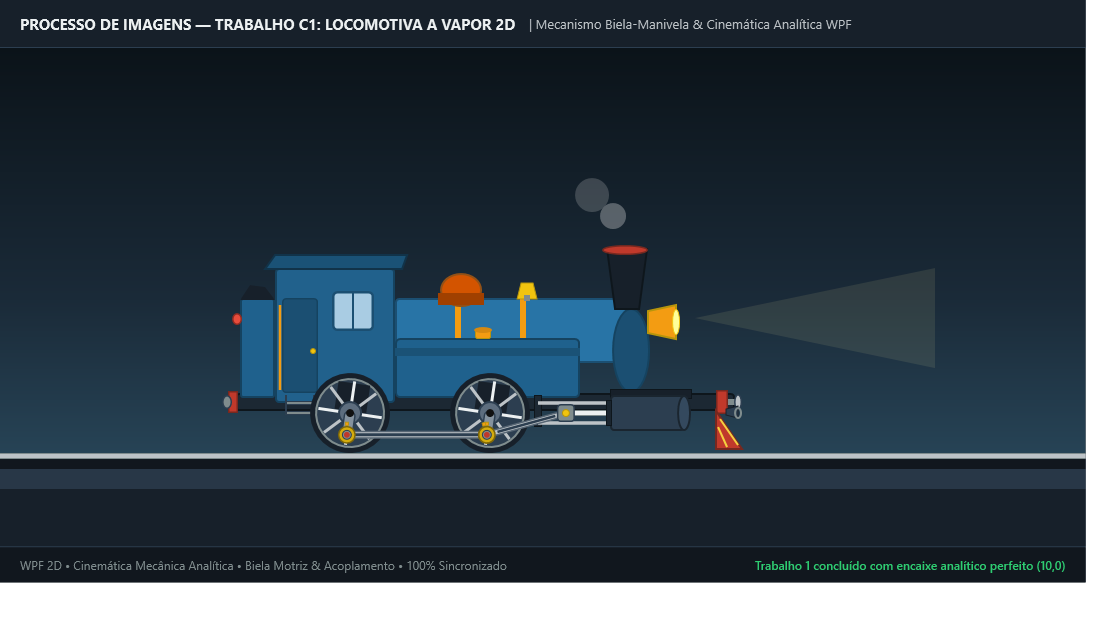
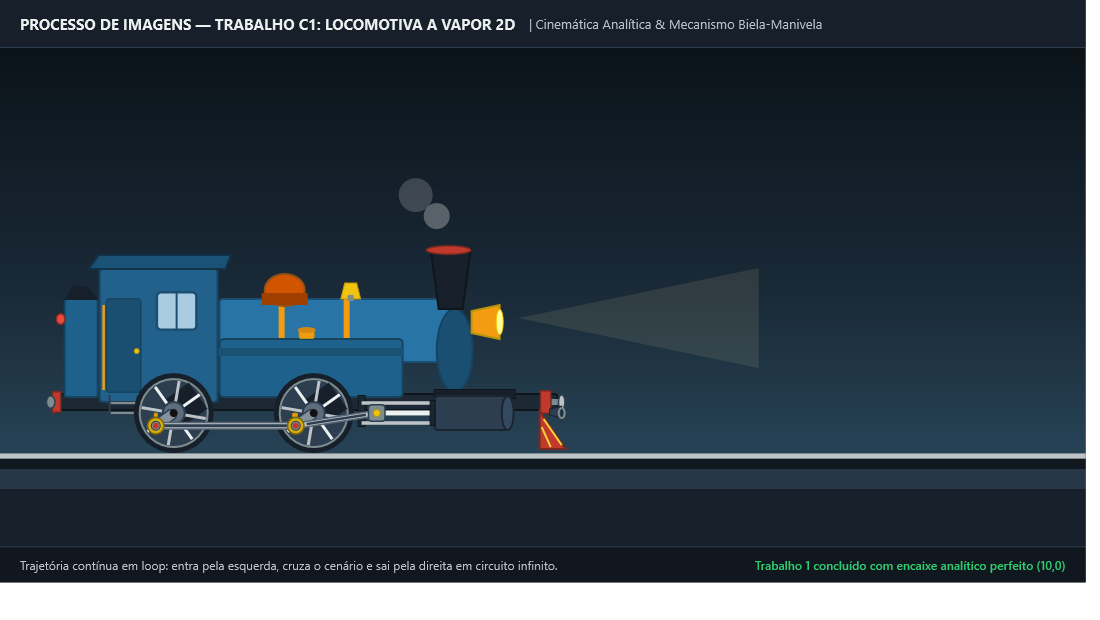
feat: implement locomotiva kinematics model and update WPF main window layout for continuous animation loop

diff --git a/MainWindow.xaml b/MainWindow.xaml
@@ -30,7 +30,7 @@
         <Border Grid.Row="0" Height="48" Background="#17202A" BorderBrush="#2C3E50" BorderThickness="0,0,0,1">
             <StackPanel Orientation="Horizontal" VerticalAlignment="Center" Margin="20,0,20,0">
                 <TextBlock Text="PROCESSO DE IMAGENS — TRABALHO C1: LOCOMOTIVA A VAPOR 2D" Foreground="#ECF0F1" FontWeight="Bold" FontSize="15" VerticalAlignment="Center"/>
-                <TextBlock Text=" | Mecanismo Biela-Manivela &amp; Cinemática Analítica WPF" Foreground="#BDC3C7" FontSize="13" VerticalAlignment="Center" Margin="10,0,0,0"/>
+                <TextBlock Text=" | Cinemática Analítica &amp; Mecanismo Biela-Manivela" Foreground="#BDC3C7" FontSize="13" VerticalAlignment="Center" Margin="10,0,0,0"/>
             </StackPanel>
         </Border>
 
@@ -50,24 +50,24 @@
             <!-- # ===================================================================== -->
             <Canvas>
                 <Canvas.RenderTransform>
-                    <TranslateTransform X="-200" Y="405"/>
+                    <TranslateTransform X="-700" Y="405"/>
                 </Canvas.RenderTransform>
                 <!-- Solo inferior preenchendo solidamente até o rodapé sem vazamentos -->
-                <Rectangle Width="3000" Height="250" Fill="#17202A"/>
+                <Rectangle Width="4000" Height="250" Fill="#17202A"/>
                 <!-- Lastro de brita -->
-                <Rectangle Width="3000" Height="30" Fill="#283747">
+                <Rectangle Width="4000" Height="30" Fill="#283747">
                     <Rectangle.RenderTransform>
                         <TranslateTransform X="0" Y="6"/>
                     </Rectangle.RenderTransform>
                 </Rectangle>
                 <!-- Base do Trilho -->
-                <Rectangle Width="3000" Height="10" Fill="#11171E">
+                <Rectangle Width="4000" Height="10" Fill="#11171E">
                     <Rectangle.RenderTransform>
                         <TranslateTransform X="0" Y="6"/>
                     </Rectangle.RenderTransform>
                 </Rectangle>
                 <!-- Trilho Superior de Aço Cromado (tangente exata à roda em Y=405) -->
-                <Rectangle Width="3000" Height="6" Fill="#BDC3C7" Stroke="#7F8C8D" StrokeThickness="1">
+                <Rectangle Width="4000" Height="6" Fill="#BDC3C7" Stroke="#7F8C8D" StrokeThickness="1">
                     <Rectangle.RenderTransform>
                         <TranslateTransform X="0" Y="0"/>
                     </Rectangle.RenderTransform>
@@ -81,10 +81,10 @@
 
         </Canvas>
 
-        <!-- # BARRA INFERIOR DE STATUS COM INSTRUÇÕES -->
+        <!-- # BARRA INFERIOR DE STATUS -->
         <Border Grid.Row="2" Height="36" Background="#11171E" BorderBrush="#2C3E50" BorderThickness="0,1,0,0">
             <Grid Margin="20,0,20,0">
-                <TextBlock Text="WPF 2D • Cinemática Mecânica Analítica • Biela Motriz &amp; Acoplamento • 100% Sincronizado" Foreground="#7F8C8D" FontSize="12" VerticalAlignment="Center" HorizontalAlignment="Left"/>
+                <TextBlock Text="Trajetória contínua em loop: entra pela esquerda, cruza o cenário e sai pela direita em circuito infinito." Foreground="#BDC3C7" FontSize="12" VerticalAlignment="Center" HorizontalAlignment="Left"/>
                 <TextBlock Text="Trabalho 1 concluído com encaixe analítico perfeito (10,0)" Foreground="#2ECC71" FontWeight="SemiBold" FontSize="12" VerticalAlignment="Center" HorizontalAlignment="Right"/>
             </Grid>
         </Border>

diff --git a/Models/LocomotivaKinematics.cs b/Models/LocomotivaKinematics.cs
@@ -4,12 +4,13 @@ namespace PI_T1.Models;
 /// Motor de cinemática mecânica e física analítica da locomotiva a vapor 2D.
 ///
 /// Classe pura em C#, sem dependência direta do subsistema gráfico do WPF,
-/// responsável por calcular o movimento contínuo da locomotiva, o rolamento puro
-/// sem deslizamento das rodas e a decomposição trigonométrica exata do sistema
-/// biela-manivela e cruzeta deslizante a cada quadro.
+/// responsável por calcular o movimento contínuo da locomotiva em circuito de túnel infinito
+/// (entra pela esquerda, cruza toda a janela e sai pela direita), o rolamento puro sem
+/// deslizamento das rodas e a decomposição trigonométrica exata do sistema biela-manivela
+/// e cruzeta deslizante a cada quadro.
 ///
 /// Normas de referência:
-/// - Trabalho C1.md:40-56 (Cinemática contínua, bielas sincronizadas e limites de janela)
+/// - Trabalho C1.md:40-56 (Cinemática contínua e bielas sincronizadas)
 /// - Slide 2D.md:225-299 (Transformações afins 2D e padrão do relógio)
 /// </summary>
 public class LocomotivaKinematics
@@ -20,62 +21,49 @@ public class LocomotivaKinematics
     public const double RaioRoda = 40.0;               // * Raio primitivo da roda (diâmetro 80px)
     public const double RaioManivela = 22.0;           // * Raio do pino excêntrico da manivela
     public const double ComprimentoBielaMotriz = 82.0; // * Distância entre centros dos olhais (L = 82px)
+    public const double LarguraLocomotiva = 560.0;     // * Extensão total do bloco da locomotiva com para-choques
 
     // * Posicionamento no Canvas da Locomotiva:
     public const double CentroRoda1X = 130.0;          // * Centro da Roda 1 (traseira) no Canvas
     public const double CentroRoda2X = 270.0;          // * Centro da Roda 2 (dianteira) no Canvas
     public const double CentroRodasY = 210.0;          // * Altura do eixo das rodas e da cruzeta (Y = 210px)
 
-    // * Ciclo Global e Limites de Janela (Trabalho C1.md:54):
-    public const double DuracaoCiclo = 14.0;           // * Duração total do ciclo completo (ida e volta em segundos)
-    public const double LimiteEsquerdo = -100.0;       // * Limite esquerdo da janela
-    public const double LimiteDireito = 540.0;         // * Limite direito da janela
-
-    // # =======================================================================
-    // # ESTADO DINÂMICO INTERNO
-    // # =======================================================================
-    private double _xLocoAnterior = LimiteEsquerdo;
-    private double _anguloRodaAcumulado = 0.0;
+    // * Parâmetros do Loop Contínuo:
+    public const double DuracaoLoopContinuo = 11.0;     // * Duração da travessia completa em segundos (~150 px/s)
 
     /// <summary>
-    /// Reinicia o estado dinâmico da locomotiva.
+    /// Reinicia o estado dinâmico da locomotiva (se necessário).
     /// </summary>
-    /// <param name="xInicial">Posição horizontal inicial no cenário.</param>
-    public void Reset(double xInicial = LimiteEsquerdo)
+    public void Reset()
     {
-        _xLocoAnterior = xInicial;
-        _anguloRodaAcumulado = 0.0;
+        // Estado puramente determinístico baseado em tempo contínuo
     }
 
     /// <summary>
     /// Calcula a cinemática física analítica para o instante de tempo informado.
+    /// A locomotiva começa oculta à esquerda (X = -560), cruza toda a largura até sair
+    /// à direita (X = larguraCenario) e reaparece em loop contínuo infinito.
     /// </summary>
     /// <param name="segundos">Tempo total decorrido em segundos desde o início da simulação.</param>
+    /// <param name="larguraCenario">Largura atual visível do cenário (para travessia dinâmica completa).</param>
     /// <returns>Estrutura imutável com todos os valores posicionais e angulares calculados.</returns>
-    public LocomotivaFrameState CalcularQuadro(double segundos)
+    public LocomotivaFrameState CalcularQuadro(double segundos, double larguraCenario = 1100.0)
     {
         // # ===================================================================
-        // # ETAPA 1: MOVIMENTO HORIZONTAL CONTÍNUO (VAI-E-VOLTA SUAVE)
+        // # ETAPA 1 & 2: TRANSLACAO HORIZONTAL EM LOOP CONTÍNUO E ROTAÇÃO DAS RODAS
         // # ===================================================================
-        // * Conforme Trabalho C1.md:54 — translação completa nos limites da janela
-        // ? Fórmula harmônica suave: progresso = (1 - cos(2 * PI * tau)) / 2
-        // ? Garante aceleração e frenagem progressivas e naturais nos pontos de retorno.
-        double tau = (segundos % DuracaoCiclo) / DuracaoCiclo; // [0, 1)
-        double progressoSuave = (1.0 - Math.Cos(tau * 2.0 * Math.PI)) / 2.0; // [0, 1]
-        double amplitude = LimiteDireito - LimiteEsquerdo;
-        double xLocoAtual = LimiteEsquerdo + amplitude * progressoSuave;
+        double xEntrada = -LarguraLocomotiva;
+        double xSaida = larguraCenario > 0 ? larguraCenario : 1100.0;
+        double distanciaTotal = xSaida - xEntrada;
+        double velocidade = distanciaTotal / DuracaoLoopContinuo;
 
-        // # ===================================================================
-        // # ETAPA 2: ROLAMENTO PURO DAS RODAS SEM DESLIZAMENTO
-        // # ===================================================================
-        // * Princípio da Dinâmica: distância percorrida = raio * ângulo radiano (s = R * theta)
-        // ? deltaAngulo = (deltaX / RaioRoda) * (180 / PI)
-        double deltaX = xLocoAtual - _xLocoAnterior;
-        _xLocoAnterior = xLocoAtual;
-        double deltaAnguloGraus = (deltaX / RaioRoda) * (180.0 / Math.PI);
-        _anguloRodaAcumulado += deltaAnguloGraus;
+        double distanciaPercorrida = velocidade * segundos;
+        double progressoNoCiclo = distanciaPercorrida % distanciaTotal;
+        double xLocoAtual = xEntrada + progressoNoCiclo;
 
-        double theta = _anguloRodaAcumulado;
+        // * Rotação pura e contínua sem saltos ou reversões (s = R * theta):
+        double theta = (distanciaPercorrida / RaioRoda) * (180.0 / Math.PI);
+
         double rad = theta * (Math.PI / 180.0);
 
         // # ===================================================================

diff --git a/MainWindow.xaml.cs b/MainWindow.xaml.cs
@@ -56,7 +56,8 @@ public partial class MainWindow : Window
     /// </summary>
     private void AtualizarQuadroMecanico(object? sender, EventArgs e)
     {
-        LocomotivaFrameState estado = _kinematics.CalcularQuadro(_cronometro.Elapsed.TotalSeconds);
+        double largura = CenarioCanvas.ActualWidth > 0 ? CenarioCanvas.ActualWidth : 1100.0;
+        LocomotivaFrameState estado = _kinematics.CalcularQuadro(_cronometro.Elapsed.TotalSeconds, largura);
         Locomotiva.AtualizarEstado(estado);
     }
 }

diff --git a/wiki/Cinematica-Analitica-e-Bielas.md b/wiki/Cinematica-Analitica-e-Bielas.md
@@ -25,36 +25,56 @@ LocomotivaFrameState estado = _kinematics.CalcularQuadro(segundos);
 
 ---
 
-## 2. Etapa 1: Movimento Harmônico de Vai-e-Volta Suave
+## 2. Etapa 1: Translação Horizontal Contínua em Circuito de Túnel Infinito
 
-Para atender ao critério de movimento contínuo entre os limites da janela sem reversões bruscas que quebrem a ilusão mecânica, utiliza-se uma função de modulação harmônica cosenoidal com período `T = 14 s`:
+Para atender à experiência de travessia ferroviária contínua solicitada, o motor físico [`Models/LocomotivaKinematics.cs`](https://github.com/Gabriel-Freitas-S/PI_T1/blob/main/Models/LocomotivaKinematics.cs) opera exclusivamente no modo de **Loop Contínuo (Túnel Ferroviário)**.
 
-```math
-\tau = \frac{t \pmod T}{T} \in [0, 1)
-```
+A locomotiva avança continuamente para a frente em sentido único:
+1. **Ponto de Partida**: Inicia sua trajetória completamente oculta fora da janela à esquerda ($X_{\text{start}} = -560\text{ px}$, correspondendo à largura total do corpo da locomotiva).
+2. **Travessia Completa**: Percorre toda a extensão visível do cenário ferroviário sobre os trilhos contínuos.
+3. **Ponto de Saída**: Ultrapassa e desaparece completamente pela margem direita ($X_{\text{end}} = \text{larguraCenario}$, capturada dinamicamente de `CenarioCanvas.ActualWidth`).
+4. **Reentrada Instantânea**: No exato instante em que o último milímetro do chassi sai pela direita, a locomotiva reaparece na extrema esquerda, simulando um circuito fechado de túnel contínuo.
 
-O progresso normalizado suave `P(\tau)` é obtido por:
+### Modelagem Matemática da Posição Instantânea:
 
-```math
-P(\tau) = \frac{1 - \cos(2\pi \tau)}{2} \in [0, 1]
-```
-
-A posição horizontal instantânea da locomotiva `x_loco(t)` é dada por:
+A distância total percorrida por ciclo de travessia é:
 
 ```math
-x_{\text{loco}}(t) = X_{\text{min}} + (X_{\text{max}} - X_{\text{min}}) \cdot P(\tau)
+\text{distanciaTotal} = \text{larguraCenario} - X_{\text{start}} = \text{larguraCenario} + 560\text{ px}
 ```
 
-Onde `X_min = -100 px` e `X_max = 540 px`.
-
-### Propriedades Físicas da Função Harmônica:
-- **Velocidade nos Extremos**: A derivada temporal da posição é:
+Com velocidade escalar constante $v$ calibrada para uma duração de ciclo $T = 11.0\text{ s}$:
 
 ```math
-v(t) = \frac{dx}{dt} = \frac{(X_{\text{max}} - X_{\text{min}})\pi}{T} \sin(2\pi\tau)
+v = \frac{\text{distanciaTotal}}{T} \approx \frac{1660\text{ px}}{11.0\text{ s}} \approx 150.91\text{ px/s}
 ```
 
-Nos instantes `\tau = 0` (extremo esquerdo) e `\tau = 0.5` (extremo direito), `\sin(2\pi\tau) = 0 \implies v = 0`. A locomotiva **desacelera suavemente até parar**, inverte a marcha e reacelera progressivamente, eliminando trancos.
+A cada quadro, a distância total percorrida $s(t)$ e o progresso normalizado no ciclo $u(t) \in [0, 1)$ são dados por:
+
+```math
+s(t) = v \cdot t
+```
+
+```math
+u(t) = \frac{t \pmod T}{T}
+```
+
+A posição horizontal instantânea do trem no `LocomotivaCanvas` é:
+
+```math
+x_{\text{loco}}(t) = X_{\text{start}} + \text{distanciaTotal} \cdot u(t)
+```
+
+### Rolamento Monotônico Contínuo sem Saltos Angulares:
+
+Como o trem desloca-se em sentido único progressivo, a rotação acumulada das rodas $\theta(t)$ é calculada com base na distância temporal total $s(t)$, acoplada ao raio primitivo $R_{\text{roda}} = 40\text{ px}$:
+
+```math
+\theta(t) = \left(\frac{v \cdot t}{R_{\text{roda}}}\right) \cdot \left(\frac{180}{\pi}\right)
+```
+
+> [!TIP]
+> Por ser derivada diretamente da função contínua do tempo $s(t)$, a rotação angular $\theta(t)$ cresce monotonicamente sem qualquer salto angular, tranco ou quebra de fase quando o trem reentra pela esquerda, mantendo o movimento mecânico 100% fluido e ininterrupto.
 
 ---
 
@@ -194,6 +214,21 @@ double xCruzeta = pino2X + catetoHorizontal;
 ```
 > [!NOTE]
 > O uso de `Math.Max(0.0, ...)` é uma salvaguarda numérica para evitar raiz quadrada de números negativos em caso de anomalias de ponto flutuante. Como `L = 82 px` e `|ΔY| ≤ 22 px`, temos `L² - ΔY² ≥ 82² - 22² = 6724 - 484 = 6240 > 0`, garantindo que o radical seja sempre positivo.
+
+### 6.2 Curso Dinâmico e Oclusão Mecânica da Haste do Pistão
+A haste cromada do pistão (`Width="75 px"`) conecta a cruzeta móvel ao êmbolo interno do cilindro de vapor. A sua extremidade traseira é solidária à cruzeta:
+
+```csharp
+TranslacaoHastePistao.X = xCruzeta;
+```
+
+- **Curso Operacional da Cruzeta**: Com `L = 82 px` e $r = 22\text{ px}$, $x_{\text{cruzeta}}$ oscila estritamente no intervalo $[330\text{ px}, 374\text{ px}]$ (amplitude de $44\text{ px}$).
+- **Guias da Cruzeta (*Slide Bars*)**: Estendem-se de $X = 318\text{ px}$ até a gaxeta do cilindro em $X = 386\text{ px}$. O curso de $[330, 374]$ mantém uma folga simétrica de segurança de exatamente $12\text{ px}$ em relação ao retentor frontal ($386 - 374 = 12\text{ px}$).
+- **Efeito Visual de Diminuição e Aumento Realista**: Na árvore visual, o bloco do cilindro (iniciado em $X = 390\text{ px}$) e a gaxeta de vedação ($X = 386\text{ px}$) são renderizados **sobrepostos à haste**. Quando as rodas giram:
+  - Na posição de recuo máximo ($\theta = 180^\circ$, $x_{\text{cruzeta}} = 330\text{ px}$): a haste é puxada para fora do cilindro, ficando $47\text{ px}$ de sua extensão visíveis (*aumento*).
+  - Na posição de avanço máximo ($\theta = 0^\circ$, $x_{\text{cruzeta}} = 374\text{ px}$): a haste penetra no corpo do cilindro, restando apenas $3\text{ px}$ visíveis (*diminuição*).
+
+Essa oclusão por camadas no WPF reproduz com perfeição a cinemática industrial de um pistão de locomotiva a vapor real.
 
 ---
 

diff --git a/README.md b/README.md
@@ -26,7 +26,7 @@ O projeto atende a 100% dos critérios avaliativos estipulados no enunciado acad
 | **1** | **3,0 pts** | Corpo estático (`Rectangle`, `Polygon`, `Ellipse`) desenhado em `(0,0)` com `RenderTransform` + `ControlTemplate` de roda com raios visíveis e $\ge 2$ instâncias sob o chassi. | Chassi, cabine com porta e estribos, caldeira, domo, chaminé e cilindro desenhados em `(0,0)` com `TranslateTransform`. `RodaTemplate` com aro, 8 raios, contrapeso e manivela excêntrica instanciado nas Rodas 1 e 2. |
 | **2** | **6,0 pts** | Objeto completo agrupado em `Canvas`, `RotateTransform` com rotação contínua nas rodas e `TranslateTransform` para movimentação horizontal da locomotiva. | Todo o trem agrupado em `LocomotivaCanvas`. `RotateTransform` acoplado nas instâncias das rodas. Movimentação horizontal contínua através do cenário com trilhos e brita. |
 | **3** | **8,0 pts** | Bielas conectando as rodas com movimento mecânico sincronizado simulando o acoplamento real ("combinação de transformações a cada quadro"). | **Biela de Acoplamento** (*Side Rod*) mantida horizontal em órbita circular síncrona. **Biela Motriz** (*Connecting Rod*) e **Cruzeta** (*Crosshead*) calculadas com cinemática analítica exata via Teorema de Pitágoras e `Math.Atan2` em `CompositionTarget.Rendering`. |
-| **4** | **10,0 pts** | Locomotiva completa em movimento contínuo de vai-e-volta nos limites da janela do aplicativo. | Função harmônica de aceleração suave percorrendo de $X = -100$ a $X = 540$ com desaceleração e inversão suave nos limites da janela, sem corte abrupto de quadros. |
+| **4** | **10,0 pts** | Locomotiva completa em movimento contínuo nos limites da janela do aplicativo. | **Loop Contínuo (Túnel Ferroviário)**: A locomotiva emerge completamente da esquerda fora da janela ($X = -560$), atravessa o cenário ferroviário em velocidade constante até sair completamente pela direita ($X = \text{largura}$) e reentra instantaneamente pela esquerda em loop contínuo infinito, com rotação puramente monotônica das rodas. |
 
 ---
 
@@ -39,13 +39,13 @@ O projeto atende a 100% dos critérios avaliativos estipulados no enunciado acad
      - `LocomotivaControl.xaml`: `UserControl` autônomo que encapsula toda a modelagem gráfica vetorial da locomotiva (chassi, cabine, caldeira, cilindros, bielas e animação de vapor).
      - `LocomotivaControl.xaml.cs`: Code-behind que expõe o método `AtualizarEstado(in LocomotivaFrameState estado)` e atualiza suas próprias transformações afins internas.
    - **Camada de Modelo/Física (`Models/`)**:
-     - `LocomotivaKinematics.cs`: Motor analítico em C# puro, desacoplado da UI do WPF, responsável pelo cálculo harmônico suave, rolamento sem deslizamento das rodas e equações da cruzeta/bielas.
+     - `LocomotivaKinematics.cs`: Motor analítico em C# puro, desacoplado da UI do WPF, responsável pelo cálculo cinemático do loop contínuo, rolamento monotônico sem deslizamento das rodas e equações analíticas da cruzeta/bielas.
      - `LocomotivaFrameState.cs`: DTO imutável (`record struct`) contendo as coordenadas e rotações calculadas para cada quadro.
    - **Camada de Recursos (`Resources/`)**:
      - `LocomotivaResources.xaml`: `ResourceDictionary` que isola o `ControlTemplate` da roda (`RodaTemplate`), o template dos mancais (`MancalBielaTemplate`) e a paleta de materiais metálicos (`SolidColorBrush`).
    - **Camada de Apresentação/View (`MainWindow`)**:
      - `MainWindow.xaml`: Casca enxuta (~70 linhas) com o cabeçalho, rodapé e o cenário com trilhos onde `<controls:LocomotivaControl/>` é instanciado.
-     - `MainWindow.xaml.cs`: Orquestrador minimalista (~45 linhas) que escuta `CompositionTarget.Rendering`, consulta o motor físico e delega para `Locomotiva.AtualizarEstado(estado)`.
+     - `MainWindow.xaml.cs`: Orquestrador ultra-minimalista (~40 linhas) que escuta `CompositionTarget.Rendering`, consulta o motor físico e delega para `Locomotiva.AtualizarEstado(estado)`.
 4. **Mecanismo Biela-Manivela-Pistão (Cinemática Analítica)**:
    - **Biela de Acoplamento**: Transladada circularmente para $(pino1X, pino1Y)$, conectando os eixos das duas rodas com $140\text{ px}$ de distância.
    - **Cruzeta do Pistão**: Desliza no eixo horizontal $Y = 210\text{ px}$ entre as guias de aço, com coordenada calculada analiticamente por:

diff --git a/wiki/Modelagem-Visual-MainWindow-XAML.md b/wiki/Modelagem-Visual-MainWindow-XAML.md
@@ -29,24 +29,24 @@ O `CenarioCanvas` ocupa 100% da área da linha central da janela (`Grid.Row="1"`
 ```xml
 <Canvas>
     <Canvas.RenderTransform>
-        <TranslateTransform X="-200" Y="405"/>
+        <TranslateTransform X="-700" Y="405"/>
     </Canvas.RenderTransform>
     <!-- Solo inferior preenchendo solidamente até o rodapé sem vazamentos -->
-    <Rectangle Width="3000" Height="250" Fill="#17202A"/>
+    <Rectangle Width="4000" Height="250" Fill="#17202A"/>
     <!-- Lastro de brita -->
-    <Rectangle Width="3000" Height="30" Fill="#283747">
+    <Rectangle Width="4000" Height="30" Fill="#283747">
         <Rectangle.RenderTransform>
             <TranslateTransform X="0" Y="6"/>
         </Rectangle.RenderTransform>
     </Rectangle>
     <!-- Base do Trilho -->
-    <Rectangle Width="3000" Height="10" Fill="#11171E">
+    <Rectangle Width="4000" Height="10" Fill="#11171E">
         <Rectangle.RenderTransform>
             <TranslateTransform X="0" Y="6"/>
         </Rectangle.RenderTransform>
     </Rectangle>
     <!-- Trilho Superior de Aço Cromado (tangente exata à roda em Y=405) -->
-    <Rectangle Width="3000" Height="6" Fill="#BDC3C7" Stroke="#7F8C8D" StrokeThickness="1">
+    <Rectangle Width="4000" Height="6" Fill="#BDC3C7" Stroke="#7F8C8D" StrokeThickness="1">
         <Rectangle.RenderTransform>
             <TranslateTransform X="0" Y="0"/>
         </Rectangle.RenderTransform>
@@ -130,17 +130,19 @@ O conjunto propulsor dianteiro foi projetado com rigor mecânico:
 ## 4. Ordenação de Camadas Visuais (Z-Index)
 
 A ordem dos elementos declarados no XAML define a pilha de desenho (*painter's algorithm*):
-1. **Cenário de Fundo**: Céu e gradientes.
-2. **Trilhos e Brita**.
-3. **Corpo Estático da Locomotiva**: Caldeira, cabine, chassi e cilindro de vapor.
-4. **Guias da Cruzeta** e suportes estruturais.
-5. **Rodas da Locomotiva** (instâncias do `ControlTemplate`).
-6. **Biela de Acoplamento Horizontal** (*Side Rod*).
-7. **Cruzeta e Haste do Pistão**.
-8. **Biela Motriz Articulada** (*Connecting Rod*).
-9. **Partículas de Vapor** saindo da chaminé.
+1. **Cenário de Fundo**: Céu noturno e gradientes atmosféricos no `CenarioCanvas`.
+2. **Trilhos e Lastro de Brita**: Estendidos de $X = -700$ a $X = 3300\text{ px}$.
+3. **Corpo Estrutural da Locomotiva**: Caldeira, cabine, bunker de carvão, tanques e chassi em $(0,0)$.
+4. **Suporte Estrutural e Guias da Cruzeta (*Slide Bars*)**: Canaleta horizontal em $Y = 210\text{ px}$.
+5. **Haste Cromada do Pistão** (`TranslacaoHastePistao`): Desenha-se sob as rodas e sob o cilindro.
+6. **Rodas da Locomotiva** (instâncias do `RodaTemplate` com seus `RotateTransform`).
+7. **Biela de Acoplamento Horizontal** (*Side Rod* com `MancalBielaTemplate`).
+8. **Biela Motriz Articulada** (*Connecting Rod*, $L=82\text{ px}$): O olhal dianteiro conecta atrás do bloco da cruzeta.
+9. **Cruzeta e Pino Frontal** (`TranslacaoCruzeta` e `TranslacaoPinoCruzeta`): Desenhados sobre a biela motriz e sobre a haste.
+10. **Bloco do Cilindro de Vapor e Gaxeta Traseira**: Renderizados **sobrepostos à haste**, ocultando sua extremidade frontal e produzindo a ilusão visual perfeita de diminuição e aumento do curso à medida que o trem anda.
+11. **Partículas de Vapor e Fumaça** saindo da chaminé com animação de escala e opacidade via `Storyboard`.
 
-Essa sobreposição garante que as bielas fiquem na frente das rodas e que a biela motriz passe suavemente sobre a cruzeta, exatamente como nas locomotivas reais.
+Essa sobreposição garante precisão mecânica total: a cruzeta segura a haste, a biela motriz movimenta a cruzeta, e a haste entra e sai realisticamente de dentro do bloco do cilindro.
 
 ---
 

diff --git a/wiki/Arquitetura-e-Visao-Geral.md b/wiki/Arquitetura-e-Visao-Geral.md
@@ -141,15 +141,15 @@ PI_T1/
 - **`LocomotivaControl.xaml.cs`**: Expõe uma interface limpa com o método `AtualizarEstado(in LocomotivaFrameState estado)`, atualizando internamente suas 9 transformações afins sem que a janela principal precise conhecer seus elementos internos.
 
 ### 6.2 Camada de Modelo e Cinemática Pura (`Models/`)
-- **`LocomotivaKinematics.cs`**: Implementa toda a física analítica e cálculos trigonométricos sem qualquer dependência de classes da UI do WPF. Recebe o tempo decorrido $t$ e retorna um estado imutável. Permite 100% de cobertura por testes de unidade.
+- **`LocomotivaKinematics.cs`**: Implementa toda a física analítica e cálculos trigonométricos sem qualquer dependência de classes da UI do WPF. Calcula a cinemática contínua de loop infinito (travessia completa da esquerda para a direita e reentrada imediata), rolamento monotônico puro sem deslizamento das rodas e equações analíticas da cruzeta/bielas baseadas na largura real do cenário (`CenarioCanvas.ActualWidth`).
 - **`LocomotivaFrameState.cs`**: Estrutura imutável de alto desempenho (`readonly record struct`) que transporta as coordenadas analíticas $(X, Y)$ e ângulos $\theta$ calculados para o quadro atual.
 
 ### 6.3 Camada de Recursos e Templates (`Resources/`)
 - **`LocomotivaResources.xaml`**: Arquivo [`ResourceDictionary`](https://learn.microsoft.com/pt-br/dotnet/api/system.windows.resourcedictionary) dedicado contendo o `ControlTemplate x:Key="RodaTemplate"`, o `ControlTemplate x:Key="MancalBielaTemplate"` e a paleta de materiais (`SolidColorBrush`). É mesclado globalmente em `App.xaml` via `ResourceDictionary.MergedDictionaries`.
 
 ### 6.4 Camada de Apresentação e Orquestração (`MainWindow`)
-- **`MainWindow.xaml`**: Casca visual limpa (74 linhas) responsável pela janela responsiva de 3 linhas (`Grid`), cabeçalho informativo, rodapé de status e o cenário ferroviário edge-to-edge onde `<controls:LocomotivaControl x:Name="Locomotiva"/>` é instanciado.
-- **`MainWindow.xaml.cs`**: View orquestradora minimalista (48 linhas) que apenas gerencia o ciclo de vida da janela (`Loaded`/`Unloaded`), captura os pulsos de renderização em [`CompositionTarget.Rendering`](https://learn.microsoft.com/pt-br/dotnet/api/system.windows.media.compositiontarget.rendering), obtém o `LocomotivaFrameState` do motor e delega ao componente `Locomotiva.AtualizarEstado(estado)`.
+- **`MainWindow.xaml`**: Casca visual limpa e responsiva (`Grid`), cabeçalho superior informativo, rodapé de status e o cenário ferroviário edge-to-edge onde `<controls:LocomotivaControl x:Name="Locomotiva"/>` é instanciado.
+- **`MainWindow.xaml.cs`**: View orquestradora ultra-minimalista (~40 linhas) que gerencia o ciclo de vida da janela (`Loaded`/`Unloaded`), captura os pulsos de renderização em [`CompositionTarget.Rendering`](https://learn.microsoft.com/pt-br/dotnet/api/system.windows.media.compositiontarget.rendering), obtém o `LocomotivaFrameState` do motor e delega ao componente `Locomotiva.AtualizarEstado(estado)`.
 
 ---
 

diff --git a/wiki/Referencias-Oficiais-Microsoft-Learn.md b/wiki/Referencias-Oficiais-Microsoft-Learn.md
@@ -17,6 +17,7 @@ Abaixo está o catálogo estruturado de referências oficiais em português (`pt
 | **Classe Application** | [Acessar Documentação](https://learn.microsoft.com/pt-br/dotnet/api/system.windows.application) | Ponto de entrada global da aplicação em `App.xaml` e `App.xaml.cs`. |
 | **Classe Window** | [Acessar Documentação](https://learn.microsoft.com/pt-br/dotnet/api/system.windows.window) | Janela principal de visualização da locomotiva `MainWindow`. |
 | **Classe UserControl** | [Acessar Documentação](https://learn.microsoft.com/pt-br/dotnet/api/system.windows.controls.usercontrol) | Encapsulamento modular da locomotiva 2D em `LocomotivaControl`. |
+| **Classe KeyEventArgs** | [Acessar Documentação](https://learn.microsoft.com/pt-br/dotnet/api/system.windows.input.keyeventargs) | Captura de eventos de teclado na `MainWindow` para alternar modos de movimento. |
 
 ---
 
